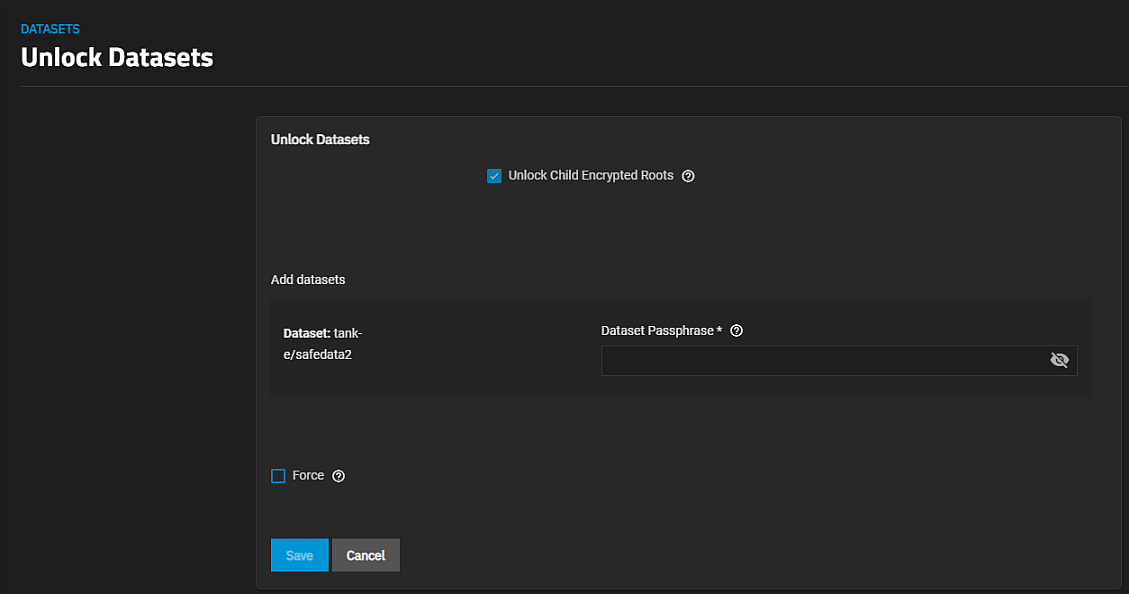
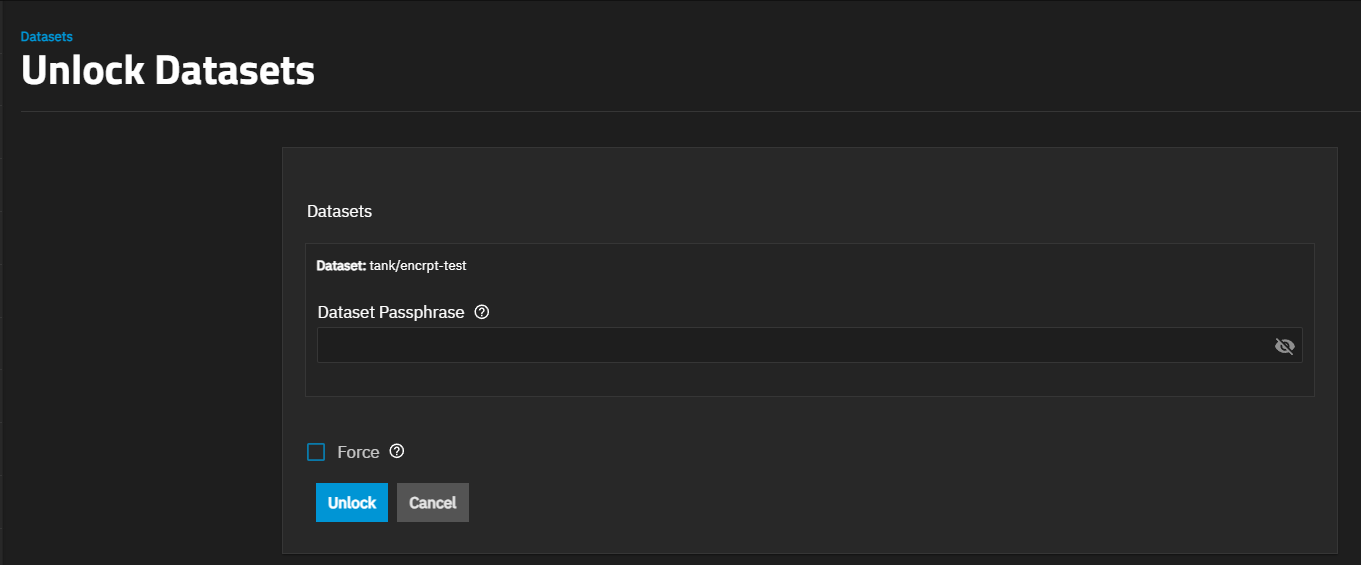
DOCS-2647 Update Encryption Screen Content
This commit adds new screenshots and updates the content in the EncryptionScreen.md article. And compresses the new screenshots.

diff --git a/content/SCALE/Datasets/Encryption/EncryptionScreen.md b/content/SCALE/Datasets/Encryption/EncryptionScreen.md
@@ -22,9 +22,9 @@ Datasets, root, non-root parent, and child, or zvols with encryption include the
 
 {{< include file="/static/includes/EncryptionIconsSCALE.md" >}}
 
-## Dataset Encryption
+## Pool Encryption Screens
 
-The **Encryption** option on the **[Pool Manager]({{< ref "PoolCreationWizardScreen" >}})** screen sets encryption for the entire pool.
+The **Encryption** options on the **[Pool Creation Wizard]({{< ref "PoolCreationWizardScreen" >}}) > General** screen set encryption for the entire pool, and when equipped with SEDs, can set the global SED encryption password.
 
 {{< include file="/static/includes/EncryptionRootLevel.md" >}}
 
@@ -33,15 +33,38 @@ It downloads a JSON file to the downloads folder on your system.
 
 {{< trueimage src="/images/SCALE/Storage/DownloadPoolEncryptionKey.png" alt="Download Pool Encryption Key" id="Download Pool Encryption Key" >}}
 
-The [**Encryption Options** settings]({{< ref "/SCALE/Datasets/ManagingDatasets#encryption-options-section" >}}) under **Advanced Options** on the **Add Dataset** screen configure encryption for that dataset.
+The following screens and dialogs are accessed from the **Datasets** screen. 
+The **Encryption** card on the **Datasets** screen shows after selecting an encrypted dataset.
 
-{{< trueimage src="/images/SCALE/Datasets/AddDatasetBasicEncryptionAndOtherOptions.png" alt="Add Dataset Encryption Options Key" id="Add Dataset Encryption Options Key" >}}
+**Edit** on the **Encryption** card opens the **[Edit Encryption Options for *dataset namne*](#edit-encryption-options-window)** window.
+
+## Edit Encryption Options Window
+
+The **Edit Encryption Options for *dataset name*** window shows the same encryption settings found on the **Add Dataset > Advanced Options** screen.
+It allows changing the type of encryption applied to the dataset, changing the encryption key or passphrase.
+The type of encryption and the options are set for a dataset when it is created or are inherited from the root dataset.
+
+{{< trueimage src="/images/SCALE/Datasets/EditEncryptionOptionsKeyTypeWindow.png" alt="Encryption Options Key Type Window" id="Encryption Options Key Type Window" >}}
+
+**Generate Key** changes the window by removing the **Key** field.
+
+{{< trueimage src="/images/SCALE/Datasets/EditEncryptionOptionsGenerateKey.png" alt="Encryption Options Generate Key" id="Encryption Options Generate Key" >}}
+
+Setting **Encryption Type** to **Passphrase** shows editable settings for passphrase encryption.
+
+{{< trueimage src="/images/SCALE/Datasets/EditEncryptionOptionsPassphraseTypeWindow.png" alt="Encryption Options Passphrase Type Window" id="Encryption Options Passphrase Type Window" >}}
+
+{{< expand "Encryption Settings" "v" >}}
+{{< include file="/static/includes/EncryptionSettings.md" >}}
+{{< /expand >}}
+
+For more information on dataset encryption, see the [**Encryption Options** settings]({{< ref "/SCALE/Datasets/ManagingDatasets#encryption-options-section" >}}) under **Advanced Options** on the **Add Dataset** screen.
 
 ## Export Key Options
 
-The **Encryption** widget for root datasets with encryption includes the **Export All Keys** and **Export Key** options. It does not include the **Lock** option.
+The **Encryption** card for root datasets (pools) with encryption includes the **Export All Keys** and **Export Key** options, but it does not include the **Lock** option.
 
-If a dataset is encrypted using a key, the **Encryption** widget for that dataset includes the **Export Key** option.
+If a dataset is encrypted using a key, the **Encryption** card for that dataset includes the **Export Key** option.
 
 ### Export All Keys Dialog
 
@@ -51,47 +74,31 @@ If a dataset is encrypted using a key, the **Encryption** widget for that datase
 
 ### Export Key Dialog
 
-**Export Key** opens a dialog showing the key for the selected dataset, and the **Download Key** button.
+**Export Key** opens a dialog showing the key for the selected dataset and the **Download Key** button.
 **Download Key** exports the key to a JSON file and saves it in your system download folder.
 
 {{< trueimage src="/images/SCALE/Datasets/ExportKeyDialog.png" alt="Export Key" id="Export Key" >}}
 
-## Edit Encryption Options Window
-
-Encryption type and options are set for a dataset when it is first created or are inherited from the root dataset.
-The **Edit Encryption Options for *datasetname*** displays the current encryption option settings for the selected encrypted dataset.
-Use to change the encryption type from or to key or passphrase, and the related settings.
-
-The **Edit Encryption Options for *datasetname*** window opens with the current dataset encryption settings displayed.
-The encryption settings options are the same as those on **Add Dataset > Encryption Options**.
-
-{{< trueimage src="/images/SCALE/Datasets/EditEncryptionOptionsKeyTypeWindow.png" alt="Encryption Options Key Type Window" id="Encryption Options Key Type Window" >}}
-
-{{< expand "Encryption Settings" "v" >}}
-{{< include file="/static/includes/EncryptionSettings.md" >}}
-{{< /expand >}}
+The **Lock** button does not show for key-encrypted datasets.
 
 ## Lock Dataset Dialog
 
-**Lock** shows on the **Encryption** widgets when you encrypt a dataset (or zvol) with a passphrase.
-An encrypted child that inherits encryption from an encrypted parent does not see the **Lock** option on its **Encryption** widget when the lock state is controlled by the parent dataset for that child dataset.
-The locked icon for child datasets that inherit encryption is the locked by ancestor icon.
+**Lock** shows on the **Encryption** card for passphrase-encrypted datasets.
+It does not show for an encrypted child that inherits encryption from an encrypted parent when the lock state is controlled by the parent dataset for that child dataset.
+The locked icon for child datasets that inherit encryption is the locked-by-ancestor icon.
 
 **Lock** opens the **Lock Dataset** confirmation dialog with the option to **Force unmount** and **Lock** the dataset.
-**Force unmount** disconnects any client system accessing the dataset via the sharing protocol. Do not select this option unless you are certain the dataset is not used or accessed by a share, application, or other system services.
 
 {{< trueimage src="/images/SCALE/Datasets/LockDatasetDialog.png" alt="Lock Dataset Dialog" id="Lock Dataset Dialog" >}}
 
-After locking a dataset, the **Encryption** screen displays **Locked** as the **Current State** and adds the **Unlock** option.
+**Force unmount** disconnects any client system accessing the dataset via the sharing protocol. Do not select this option unless you are certain the dataset is not used or accessed by a share, application, or other system services.
+
+After locking a dataset, the **Encryption** screen shows **Locked** as the **Current State** and adds the **Unlock** option.
 
 ## Unlock Datasets Screen
 
-**Unlock** on the **Encryption** widget shows for locked datasets that are not child datasets that inherit encryption from the parent dataset.
-**Unlock** opens the **Unlock Datasets** screen, which is used when you unlock the selected dataset and child datasets simultaneously.
-
-{{< trueimage src="/images/SCALE/Datasets/UnlockDatasetsScreenNonRootParent.png" alt="Unlock Non-Root Parent and Child Datasets Screen" id="Unlock Non-Root Parent and Child Datasets Screen" >}}
-
-If you select a child dataset of a root (pool-level) dataset or a non-root parent, the screen includes only the one **Dataset Passphrase** field, and the option to **Unlock Child Encrypted Roots** is pre-selected.
+**Unlock** on the **Encryption** card shows for locked datasets that are not child datasets that inherit encryption from the parent dataset.
+**Unlock** opens the **Unlock Datasets** screen.
 
 {{< trueimage src="/images/SCALE/Datasets/UnlockDatasetsScreen.png" alt="Unlock Datasets Screen" id="Unlock Datasets Screen" >}}
 
@@ -99,10 +106,21 @@ If you select a child dataset of a root (pool-level) dataset or a non-root paren
 {{< truetable >}}
 | Setting | Description |
 |---------|-------------|
-| **Unlock Child Encrypted Roots** | Unlocks any encrypted dataset stored within this dataset. |
-| **Dataset Passphrase**<br> **Dataset Key** | Text entry field that accepts manual or copy/paste entry of the user-defined string (passphrase) or system-generated or user-created alphanumeric key entered when you created the dataset. |
-| **Force** | Adds a force flag to the operation. In some cases, the provided key/passphrase might be valid, but the path where the dataset is supposed to be mounted after being unlocked already exists and is not empty. In this case, the unlock operation fails. Adding the force flag can override this, and when selected, the system renames the existing dataset mount directory/file path and unlocks the dataset. |
-| **Save** | Starts the unlock process, fetches data, and displays the **Unlock Datasets** dialog with the dataset mount path. **Continue** unlocks the dataset. |
-| **Save** | Starts the unlock process, fetches data, and displays the **Unlock Datasets** dialog with the dataset mount path. **Continue** unlocks the dataset. |
+| **Dataset** |Shows the path to the selected encrypted dataset. |
+| **Dataset Passphrase** | Specifies the user-defined passphrase string entered when you created and encrypted the dataset. |
+| **Force** | Adds a force flag to the  unlock operation. In some cases, the provided passphrase might be valid, but the path where the dataset is supposed to be mounted after being unlocked already exists and is not empty. In this case, the unlock operation fails. Adding the force flag can override this, and when selected, the system renames the existing dataset mount directory/file path and unlocks the dataset. |
 {{< /truetable >}}
 {{< /expand >}}
+
+Unlocking encrypted datasets shows two additional dialogs: **Unlock Datasets** and **Unlocked Datasets**.
+
+{{< trueimage src="/images/SCALE/Datasets/UnlockDatasetsDialog.png" alt="Unlock Datasets Dialog" id="Unlock Datasets Dialog" >}}
+
+**Continue** on the **Unlock Datasets** dialog starts the unlocking process, fetches data and opens the **Unlock Datasets** dialog.
+
+{{< trueimage src="/images/SCALE/Datasets/UnlockedDatasetsDialog.png" alt="Unlocked Datasets Dialog" id="Unlocked Datasets Dialog" >}}
+
+When the locked dataset has child datasets, both are unlocked at the same time and show on the **Unlocked Datasets** dialog.
+
+The **Unlocked Datasets** dialog opens after clicking **Continue** on the **Unlock Datasets** dialog and shows the status of unlocked datasets and the mount path to the datasets.
+
